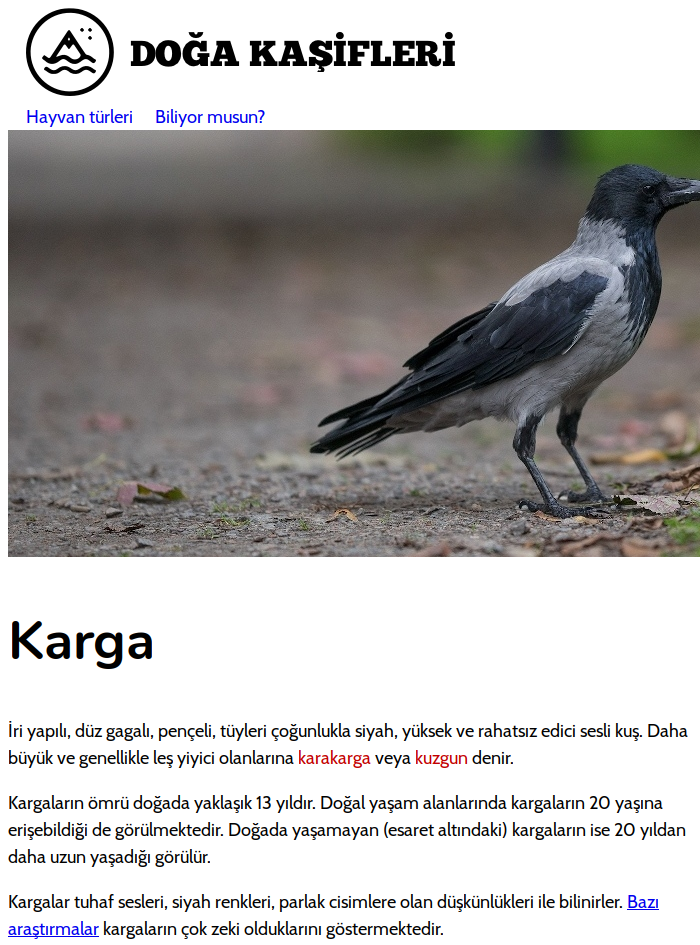
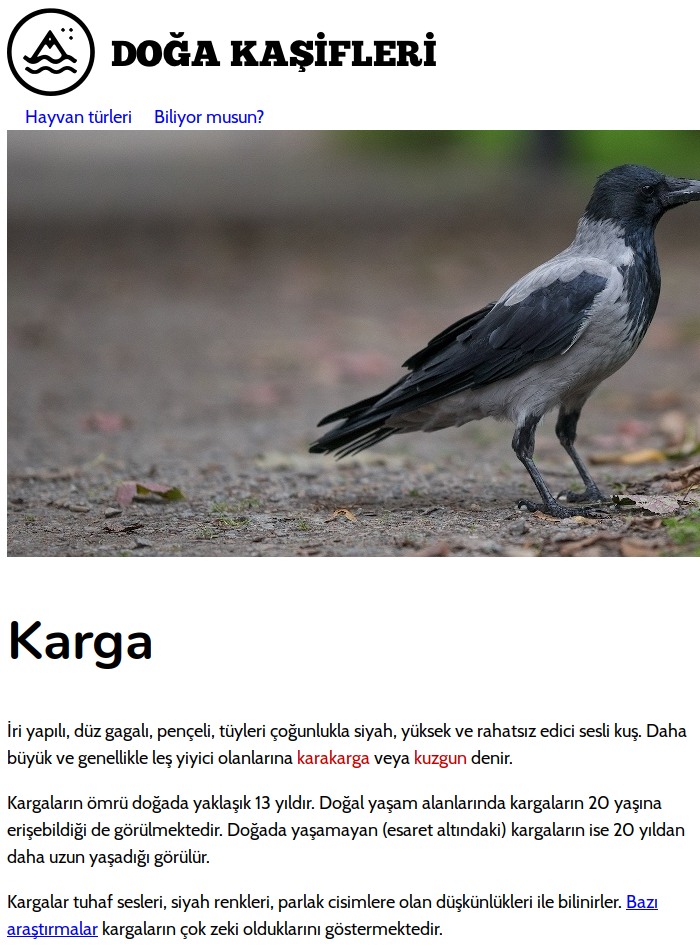
Son CSS kurallarına göre ekran görüntülerini güncelle

diff --git a/source/css.rst b/source/css.rst
@@ -628,6 +628,9 @@
 
             header a {
               text-decoration: none;
+            }
+
+            header nav a {
               margin-left: 1em;
             }
 
@@ -744,11 +747,6 @@
             img#poster {
               width: 100%;
               height: auto;
-            }
-
-            figure {
-              margin-left: 0;
-              margin-right: 0;
             }
 
       .. container:: column
